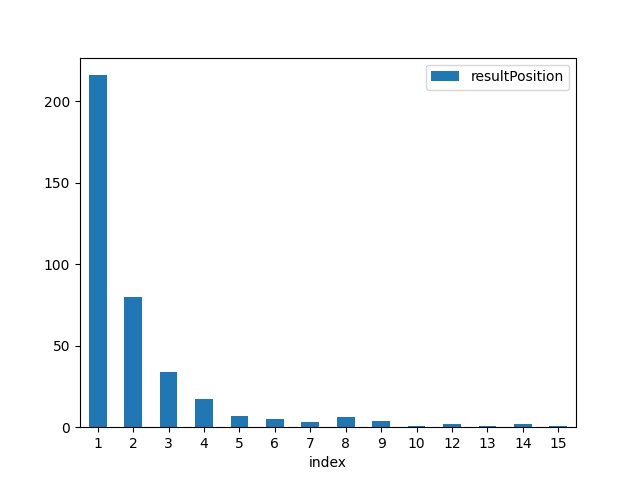
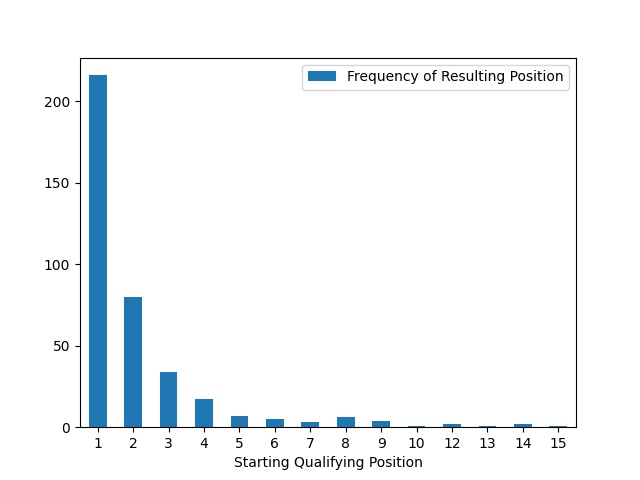
Improvements on position delta

Changed region(s): [[0.4688, 0.125, 0.875, 0.1875], [0.375, 0.9375, 0.6562, 1.0]]

diff --git a/main.py b/main.py
@@ -78,9 +78,10 @@ def getPosDelta():
         segmentDf = newDf[newDf["qualifyingPosition"] == qualPos].copy()
         valueCountDf = segmentDf["resultPosition"].value_counts().to_frame()
         valueCountDf.reset_index(inplace=True)
-        valueCountDf.sort_values(by=['index'], inplace=True)
+        valueCountDf.rename({'index': "Starting Qualifying Position", "resultPosition": "Frequency of Resulting Position"}, axis='columns', inplace=True)
+        valueCountDf.sort_values(by=['Starting Qualifying Position'], inplace=True)
         # print(valueCountDf)
-        ax = valueCountDf.plot.bar(x='index', y='resultPosition', rot=0)
+        ax = valueCountDf.plot.bar(x='Starting Qualifying Position', y='Frequency of Resulting Position', rot=0)
 
         plt.show()
         ax.get_figure().savefig('output/positionDelta/qual_' + str(qualPos) + '.jpg')
